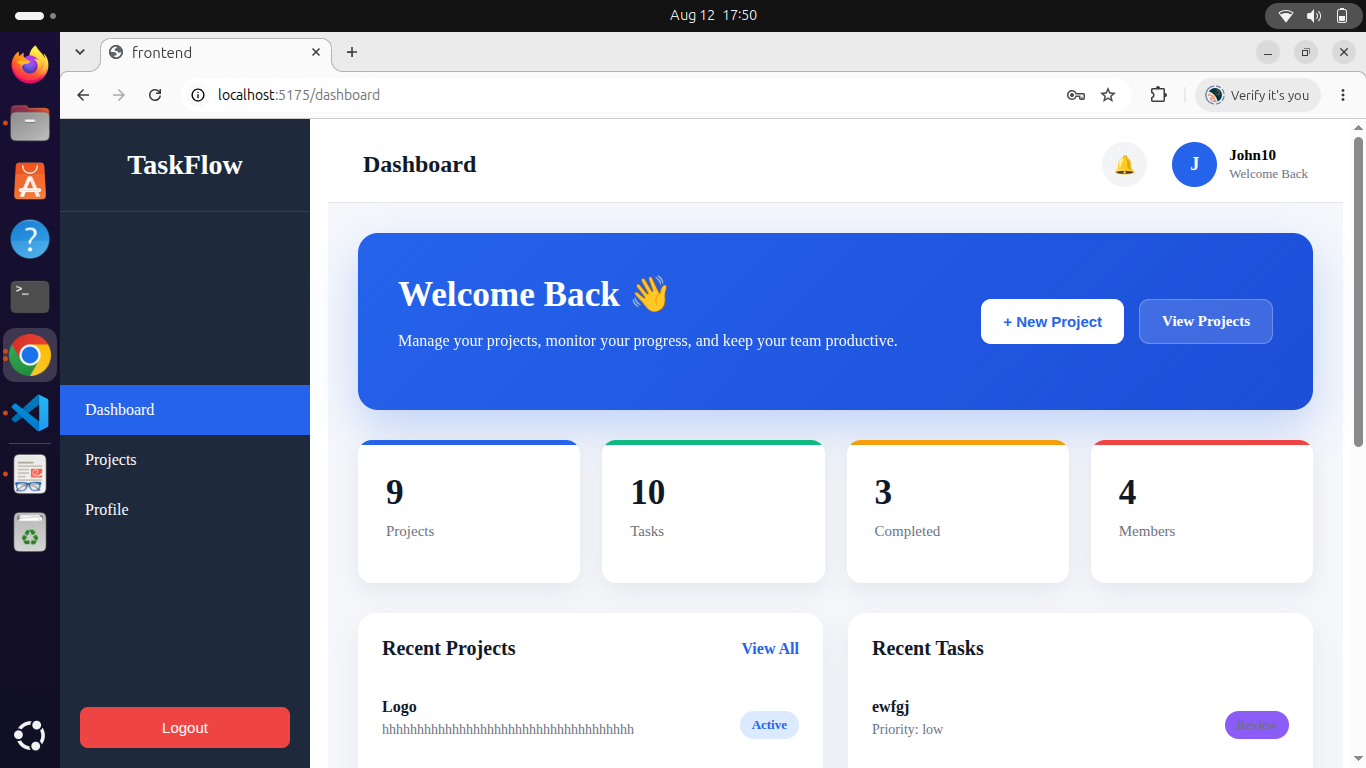
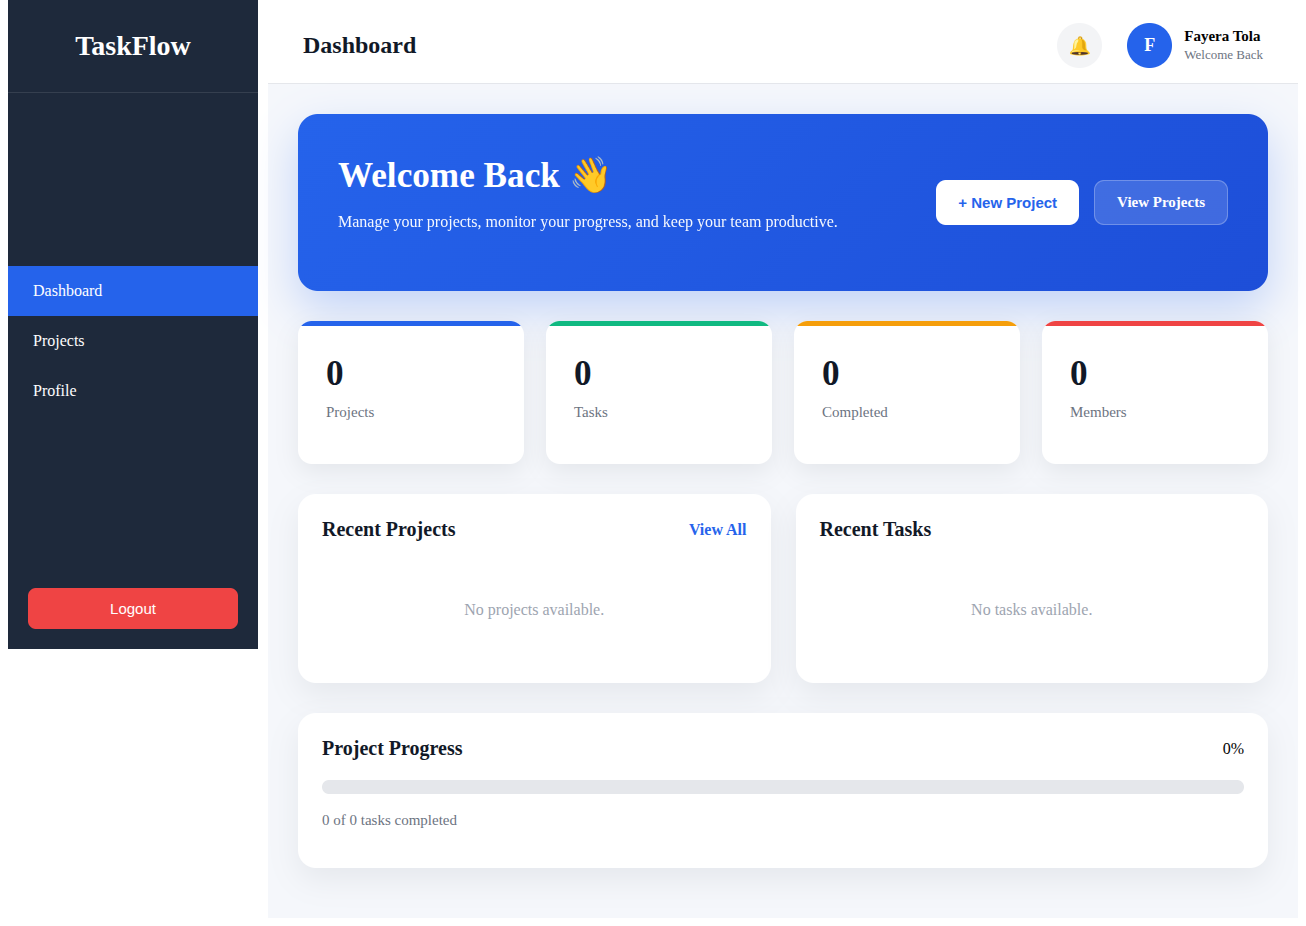
project phase

diff --git a/src/data/projects.js b/src/data/projects.js
@@ -62,8 +62,8 @@ export const featuredProjects = [
       "Deployed on GitHub Pages",
     ],
     stack: ["React", "Vite", "React Router", "Axios", "Material UI", "TMDB API"],
-    image: "/projects/netflix-clone-preview.svg",
-    imageAlt: "Netflix clone project preview — replace with your screenshot",
+    image: "/projects/netflix-clone-preview.png",
+    imageAlt: "Netflix clone project preview",
     github: "https://github.com/mi11io0n-5agni/Netflix-Clone",
     liveDemo: "https://mi11io0n-5agni.github.io/Netflix-Clone/",
   },
@@ -80,8 +80,8 @@ export const featuredProjects = [
       "Admin employee management and full queue overview",
     ],
     stack: ["React", "Vite", "Node.js", "Express", "MongoDB", "JWT"],
-    image: "/projects/coop-bank-preview.svg",
-    imageAlt: "COOP Bank queue system preview — replace with your screenshot",
+    image: "/projects/coop-bank-preview.png",
+    imageAlt: "COOP Bank queue system preview",
     github: "https://github.com/mi11io0n-5agni/BankingOperation",
     liveDemo: "https://coopbankqueue.vercel.app/",
   },
